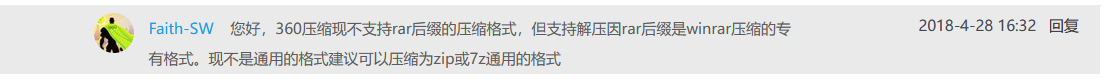
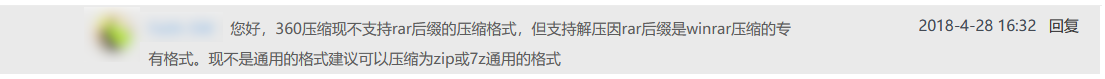
更新到网页版文字内容

Changed region(s): [[0.0615, 0.1519, 0.2154, 0.7089]]

diff --git a/chapters/chap_1-3_software-installation.tex b/chapters/chap_1-3_software-installation.tex
@@ -38,7 +38,7 @@
 
 当要获取一款软件时，我们首先应该考虑的是它的官方网站，即「官网」。比起在其他地方下载软件，从官网下载软件能最大限度地保证你所下载的东西是干净的。
 
-然而，\regcolor{搜索引擎中存在大量广告，且为了吸引点击量而常常放在前面，所以搜索结果中靠前的结果并不一定是官网。}例如，我们想要下载办公软件 WPS Office（简称 WPS），直接在某搜索引擎上搜索「WPS 下载」，我们会得到这样的搜索结果：
+然而，\regcolor{搜索引擎中存在大量广告，且为了吸引点击量而常常放在前面，所以搜索结果中靠前的结果并不一定是官网}。同时，\regcolor{还有很多网站会提供图标、名称与原版软件极为相似的「高仿软件」，稍不留意，我们就会误入它们的圈套}。例如，我们想要下载办公软件 WPS Office（简称 WPS），直接在某搜索引擎上搜索「WPS 下载」，我们会得到这样的搜索结果：
 
 \begin{figure}[htb!]
   \centering
@@ -59,16 +59,17 @@
 鉴别一个网站到底是不是官网，我们主要可以观察这么几个地方：
 
 \begin{itemize}
-  \item 看网址。一般官网的网址都是企业或者软件的名字。例如：
+  \item 看网址。对于一个网址 \texttt{https://www.\underline{example.com}/some/page/...}，我们关注它的主域名部分，即 \texttt{example.com}。一般来说，软件的官网的主域名往往与软件厂商的名称相关联。例如：
   \begin{itemize}
-    \item WPS 的官网是 \texttt{wps.cn}。
-    \item QQ 的官网是 \texttt{qq.com}。
-    \item 网易云音乐的官网是 \texttt{163.com}。
-    \item Steam 的官网是 \texttt{steampowered.com}\footnote{如果你想快速去到 Steam 的官网，可以直接访问 \href{https://s.team}{\texttt{s.team}}。}。
+    \item WPS 的官网是 \texttt{https://www.\underline{wps.cn}}。
+    \item QQ 的官网是 \texttt{https://im.\underline{qq.com}}，微信则是 \texttt{https://weixin.\underline{qq.com}}，主域名都是 \texttt{qq.com}。
+    \item 网易云音乐的官网是 \texttt{https://music.\underline{163.com}}，\texttt{163.com} 是网易的主域名，你可以上网查一查它的由来。
+    \item Steam 的官网是 \texttt{https://store.\underline{steampowered.com}}，它比较特殊——主域名并不是软件或公司名本身\footnote{如果你想快速去到 Steam 的官网，可以直接访问 \href{https://s.team}{\texttt{s.team}}。}。
     \item ……
   \end{itemize}
   \item 排除法。没有哪个软件厂商的名字是叫做「✕✕软件站」「✕✕下载站」「✕✕软件园」的。带有这些名字的\textbf{全部}是第三方下载站。
   \item 语义判断。一般广告网站的标题都与搜索关键词没有任何实质上的联系。我们不妨再看上面的搜索结果中的前几条广告，会发现它们通常名不副实（如「办公软件」「Office」而非「WPS」）。
+  那些提供广告软件的网站，为了规避法律风险，标题通常与我们搜索的关键词没有任何实质上的联系——我们不妨再看上面的搜索结果中的前几条广告，会发现它们通常名不副实，如「办公软件」「Office」，而非我们要找的「WPS」。\regcolor{此外，一些提供「高仿软件」的网站会在原版软件名称前后加上一些修饰词，比如「Steam \underline{管家}」「Office \underline{助手}」等，以此混淆视听}。 
 \end{itemize}
 
 当我们下载的软件是国外软件时，这一问题会变得更加严重。假设我们想下载国外著名游戏平台 Steam 的客户端，我们在搜索引擎上搜索「Steam 下载」，得到的结果如下：
@@ -121,7 +122,7 @@
   一些软件可能有「安装版」和「便携版」之分——前者像普通软件一样，需要安装使用，而后者不必安装，下载后可以直接运行（可能需要解压）。一般来说，安装版文件名含有「setup」字样，而便携版可能有「portable」字样。一般我们建议下载安装版。
 \end{note}
 
-例如，在 WPS 官网下载 WPS 软件：
+图\autoref{fig:Download_WPS} 展示了在 WPS 官网下载 WPS 软件，而图\autoref{fig:OBS} 展示了在 OBS Studio 官网下载 OBS Studio 软件。
 
 \begin{figure}[htb!]
   \centering
@@ -129,8 +130,6 @@
   \caption{从官网下载 WPS}
   \label{fig:Download_WPS}
 \end{figure}
-
-或是在 OBS Studio 官网下载 OBS Studio 软件：
 
 \begin{figure}[htb!]
   \centering
@@ -231,6 +230,15 @@
 
 一般来说，那些由电脑厂商所维护的软件管家，往往相对干净、不带「全家桶」式的捆绑；而那些第三方企业维护的软件管家，一般都会或多或少地提示用户安装它们的配套软件。比如，如果你使用 360 软件管家，那它可能就用某些手段提示用户去安装 360 安全卫士以及一系列其他软件。因此，你可以根据自身机器的实际情况，按需选择这样的软件管家类工具。
 
+此外，在这些「软件管家」类工具中，我们也会遇到上文所提的广告和「冒牌货」现象。例如，下图是在某软件管家中搜索「Bandizip」（一款压缩工具，详见\chapref{cha:archive-formats-and-tools}）时的结果，其中前四项均不是我们所需要的软件（甚至还标榜「无忧退」「金牌开发者」，而我们真正需要的却没有任何标注）。因此，在使用各种软件管家时，我们仍然必须擦亮双眼，谨防被骗。
+
+\begin{figure}[htb!]
+  \centering
+  \includegraphics[width=.7\textwidth]{assets/basic/Ads_in_store.png}
+  \caption{在某软件管家中搜索「Bandizip」的结果}
+  \label{fig:Bandizip_in_software_manager}
+\end{figure}
+
 \section{安装软件}
 
 假设经过与各种网站的斗智斗勇，你成功地下载到了某款软件的安装包。取决于软件，你下载到的可能是下面三种文件中的某一种：
@@ -272,7 +280,7 @@
 
 在安装过程中还需要特别注意的一件事，便是「软件安装位置」，即安装包释放软件自身各种文件的位置。
 
-在上一章中我们提到过，如果 C 盘空间有限，就不要把大量的数据放在 C 盘。对于软件来说，同样有类似的情况：如果你的 C 盘空间本身并不大（例如，小于 300 GB），将大量的软件放在 C 盘，会使得 C 盘的空间压力随着使用时间的增长而显著增大。在这种情况下，安装到 D 盘或其他磁盘分区是更好的选择。不过，如果你的电脑总共只有一个分区（C 盘），那么直接选择安装在其中即可。
+在上一章中我们提到过，如果 C 盘空间有限，就不要把大量的数据放在 C 盘。对于软件来说，同样有类似的情况：如果你的 C 盘空间本身并不大（例如，小于 300 GB），将大量的软件放在 C 盘，会使得 C 盘的空间压力随着使用时间的增长而显著增大。在这种情况下，安装到 D 盘或其他磁盘分区是更好的选择。不过，如果你的电脑总共只有一个分区（C 盘），那就不必考虑这个问题。
 
 \begin{note}
   在\chapref{cha:computer-and-its-components}一章介绍硬盘时，我们说有些电脑会混合使用固态硬盘和机械硬盘。一般这种情况下，C 盘位于固态硬盘上，而后续的分区有可能位于机械硬盘上，你可以在任务管理器中查看分区和硬盘的对应关系。在这种情况下，我们建议将常用软件安装在 C 盘或者固态硬盘的分区上。
@@ -287,17 +295,13 @@ C:\Program Files (x86)\<厂商名字>\<软件名字>\
 
 在上一章中我们提到了「快捷方式」，在你的电脑桌面上就有许多软件可执行文件的快捷方式。右键它们选择【属性】，你就能看到这些已经安装的软件的位置。看看它们中的一些是不是在 \MissingVerb{C:\Program Files\} 或者 \MissingVerb{C:\Program Files (x86)\} 下？
 
-\begin{note}
-  然而，往上面两个位于 C 盘的路径里面放东西是需要管理员权限的（详情可见 \chapref{cha:basic-maintenance}）。而有些软件会默认把自己安装到你用户文件夹下的 \MissingVerb{AppData} 文件夹，这个文件夹默认是隐藏的，但往里面放东西不需要管理员权限。这种策略给我们管理软件安装位置带来了一些麻烦。
-\end{note}
-
-\MissingVerb{Program Files} 和 \MissingVerb{Program Files (x86)} 这两个文件夹，即系统预置的两个用来安装 app 的文件夹，都位于 C 盘根目录下。然而，我们希望把软件安装到 D 盘。这里推荐一个简单好用的方法：\regcolor{直接将默认路径中的 \MissingTT{C:} 改成 \MissingTT{D:}。}例如：
+\MissingVerb{Program Files} 和 \MissingVerb{Program Files (x86)} 这两个文件夹，即系统预置的两个用来安装软件的文件夹，都位于 C 盘根目录下。如果你希望把软件安装到 D 盘来缓解 C 盘的空间压力，这里推荐一个简单好用的方法：直接将默认路径中的 \MissingTT{C:} 改成 \MissingTT{D:}。例如：
 
 \begin{MissingVerbatim}
   D:\Program Files (x86)\Tencent\QQ\
 \end{MissingVerbatim}
 
-这就是在 D 盘安装 QQ 软件的一个很合适的路径。这样做能保持一个比较干净的目录结构。你的 D 盘下会因此多出 \MissingVerb{Program Files} 和 \MissingVerb{Program Files (x86)} 这样的两个文件夹，用来专门在 D 盘安装软件。如下图所示，在安装软件过程中把 \MissingVerb{C} 改成 \MissingVerb{D} 即可。
+这就是在 D 盘安装 QQ 软件的一个很合适的路径，如下图所示。这样做能保持一个比较干净的目录结构。你的 D 盘下会因此多出 \MissingVerb{Program Files} 和 \MissingVerb{Program Files (x86)} 这样的两个文件夹，用来专门在 D 盘安装软件，也便于你自己管理。
 
 \begin{figure}[htb!]
   \centering
@@ -306,7 +310,7 @@ C:\Program Files (x86)\<厂商名字>\<软件名字>\
   \label{fig:Change_C_to_D}
 \end{figure}
 
-如\autoref{fig:Sogou_change_directory} 所示，有一些软件的安装包不是「下一步」型的，而只有一个「立即安装」的按钮。一般这种情况，可以展开「自定义安装」之类的选项，然后更改软件的安装位置。
+有一些软件的安装包不是「下一步」型的，而是直接有一个【立即安装】的按钮，如下图。一般这种情况，可以展开「自定义安装」之类的选项，然后更改软件的安装位置。
 
 \begin{figure}[htb!]
   \centering
@@ -314,6 +318,24 @@ C:\Program Files (x86)\<厂商名字>\<软件名字>\
   \caption{有时候得找「自定义安装」的选项}
   \label{fig:Sogou_change_directory}
 \end{figure}
+
+除了上面提到的 \MissingVerb{Program Files} 和 \MissingVerb{Program Files (x86)} 文件夹外，有一些软件选择默认安装到你用户文件夹下的 \MissingVerb{AppData} 文件夹，即
+\begin{MissingVerbatim}
+  C:\用户\<你的用户文件夹名>\AppData
+\end{MissingVerbatim}
+这是因为 C 盘作为 Windows 系统所在的分区，有一套复杂的权限管理机制，往两个 \MissingVerb{Program Files} 目录放东西是需要管理员权限的（见\chapref{cha:basic-maintenance}）。相比之下，位于用户文件夹的 \MissingVerb{AppData} 则不需要管理员权限，因此被这些软件选为理想的安装路径。如果你想将这类软件安装到 D 盘或其他分区，可以在对应分区新建一个文件夹（例如 \MissingVerb{UserApps} 或 \MissingVerb{UserPrograms}）来统一存放它们。当然，你也可以照猫画虎地直接「改 C 为别的」来安装到其他分区，但这样会产生复杂的目录结构，可能不利于你自己管理。
+
+\begin{warning}
+  你可以按上文介绍的操作将软件安装到 C 盘以外的分区；但若想把软件安装到 C 盘，请保持默认安装路径，不要更改。受 C 盘权限机制的影响，将软件随意安装到 C 盘内的其他位置可能会出现问题。
+\end{warning}
+
+% \begin{note}
+%   然而，往上面两个位于 C 盘的路径里面放东西是需要管理员权限的（详情可见 \chapref{cha:basic-maintenance}）。而有些软件会默认把自己安装到你用户文件夹下的 \MissingVerb{AppData} 文件夹，这个文件夹默认是隐藏的，但往里面放东西不需要管理员权限。这种策略给我们管理软件安装位置带来了一些麻烦。
+% \end{note}
+
+% \MissingVerb{Program Files} 和 \MissingVerb{Program Files (x86)} 这两个文件夹，即系统预置的两个用来安装 app 的文件夹，都位于 C 盘根目录下。然而，我们希望把软件安装到 D 盘。这里推荐一个简单好用的方法：\regcolor{直接将默认路径中的 \MissingTT{C:} 改成 \MissingTT{D:}。}例如：
+
+% 如\autoref{fig:Sogou_change_directory} 所示，有一些软件的安装包不是「下一步」型的，而只有一个「立即安装」的按钮。一般这种情况，可以展开「自定义安装」之类的选项，然后更改软件的安装位置。
 
 \section{软件收费、破解和自由软件}
 

diff --git a/chapters/chap_4-2_introduction-to-cryptology.tex b/chapters/chap_4-2_introduction-to-cryptology.tex
@@ -103,7 +103,7 @@
   \end{tblr}
 \end{table}
 
-这样一来，「MISSING」一词加密之后就变成了「DOLLOFU」。相比凯撒密码，字母替换密码更隐藏了字母之间的相对位置关系，而高达$26!$种加密情况也使得它更难被暴力破解。可是，人们在统计了大量文本后发现，一门语言当中，每个字母出现的频率是有规律的：譬如 E 与 T 是在英语中出现频率最大的两个字母。那么，密文里出现频率最高的两个字母，就很可能对应着 E 和 T。这就是「频率分析」。借助它，人们可以确定字母间的对应关系，从而破解字母替换密码。
+这样一来，「MISSING」一词加密之后就变成了「DOLLOFU」。相比凯撒密码，字母替换密码更隐藏了字母之间的相对位置关系，而高达$26!$\footnote{$n!$ 表示 $n$ 的阶乘，即 $n! = 1\times2\times3\times\cdots\times(n-1)\times n$。}种加密情况也使得它更难被暴力破解。可是，人们在统计了大量文本后发现，一门语言当中，每个字母出现的频率是有规律的：譬如 E 与 T 是在英语中出现频率最大的两个字母。那么，密文里出现频率最高的两个字母，就很可能对应着 E 和 T。这就是「频率分析」。借助它，人们可以确定字母间的对应关系，从而破解字母替换密码。
 
 采用「动态替换」的维吉尼亚密码则在一定程度上解决了这个问题。它使用一个单词作为密钥，靠密钥的每个字母决定不同位置的偏移量：例如 B 代表偏移量为 1，D 就代表偏移量为 3。下图展示了用「WINDY」加密「MISSING」的过程，可见，每一次的偏移量都在变化，并且不同位置上，字母的替换关系不同。
 
@@ -416,7 +416,7 @@ Windy 收到 $C$ 后，按这个式子
 
 \begin{itemize}
   \item ECDHE 是一种基于椭圆曲线的密钥交换算法，它有点像我们提到的非对称加密算法如 RSA，也有成对的公钥与私钥，不过它专门被用来在通信双方交换后续加密的密钥——也就是接下来提到的 AES 算法的密钥；ECDSA 则是基于椭圆曲线的数字签名算法，关于数字签名的更多内容，请继续阅读本文。
-  \item AES\_{}128\_{}GCM 则代表以 128 位为密钥长度的 AES 加密算法。当收到由之前由 ECDHE 传输过来的密钥之后，浏览器就有能力解密通过 AES 加密后传输过来的真正的网页内容，随后送给浏览器渲染并呈现在你眼前。
+  \item AES\_{}128\_{}GCM 则代表以 128 位为密钥长度的 AES 加密算法。当收到之前由 ECDHE 传输过来的密钥之后，浏览器就有能力解密通过 AES 加密后传输过来的真正的网页内容，随后送给浏览器渲染并呈现在你眼前。
 \end{itemize}
 
 除了 HTTPS 以外，另一个我们身边的直观加密例子是 Windows 系统本身——Windows 使用 AES 加密算法来保护我们硬盘上的数据。在\chapref{cha:user-and-ms-account}一章中我们提到，Windows 提供了一种「设备加密」功能，启动该功能后，硬盘上的所有数据都会被加密存储。这种技术的「真名」叫做 BitLocker，它使用 AES 加密算法来保护硬盘上的数据，而密钥受电脑内部的安全芯片保护。一旦这个安全芯片检测到「情况不对」，就会拒绝提供密钥，从而牢牢地 \CJKsout*{拦住正常的用户} 保护数据的安全。
@@ -429,7 +429,7 @@ Windy 收到 $C$ 后，按这个式子
 
 \subsection{完整才是硬道理——校验和与哈希}
 
-在本书的\chapref{cha:bring-intelligence-to-machines}一章中，我们讲述过过 AI 与人类本质的区别。如果某个攻击者在文章从服务器向我们传输的过程中，蓄意拦截、篡改部分内容，但让其他数据正常发送，让整段文字变成这样（涂黑的是拦截掉的内容，红色是篡改的内容）：
+在本书的\chapref{cha:bring-intelligence-to-machines}一章中，我们讲述过 AI 与人类本质的区别。如果某个攻击者在文章从服务器向我们传输的过程中，蓄意拦截、篡改部分内容，但让其他数据正常发送，让整段文字变成这样（涂黑的是拦截掉的内容，红色是篡改的内容）：
 
 % 此段与《AI》的「是敌还是友」一节联动
 \begin{quoting}

diff --git a/missing.tex b/missing.tex
@@ -24,10 +24,6 @@
   \vspace*{2.3cm}
 \end{center}
 
-\begin{note}
-  我们十分期望得到读者的建议和意见：无论是对编写方向有好的建议，还是发现了叙述不正确或不严谨的地方，亦或是找到了一个错别字，都请加群向我们反馈或将反馈发送到邮箱 \href{mailto:missing@criwits.top}{\texttt{missing@criwits.top}} 哦！
-\end{note}
-
 这是一份适合电脑小白入门的电脑使用课程。它平易近人，娓娓道来，介绍了从基本的文件管理，到软件的寻找安装，再到各类使用技巧与优良软件推荐的许多内容，旨在帮助读者在信息化时代更灵活地使用电脑。
 
 这也是一份面向今日与未来的信息时代指南。它立足当下，探索变革，讲述了当今热门的生成式 AI、网络安全、物联网与云计算等前沿技术的概念、原理和应用，能够引导读者立于数字化时代的潮头，把握科技发展的方向。
@@ -35,7 +31,11 @@
 零门槛、易理解、有深度，与时俱进、开放共享——这是《你缺失的那门计算机课》不断追求的目标，也是我们努力的方向。
 
 \begin{note}
-  本书纸质版预计在 2025 年末由清华大学出版社出版，敬请期待！
+  本书纸质版预计在 2026 年初由清华大学出版社出版，敬请期待！
+\end{note}
+
+\begin{note}
+  我们十分期望得到读者的建议和意见：无论是对编写方向有好的建议，还是发现了叙述不正确或不严谨的地方，亦或是找到了一个错别字，都请加群向我们反馈或将反馈发送到邮箱 \href{mailto:missing@criwits.top}{\texttt{missing@criwits.top}} 哦！
 \end{note}
 
 \begin{center}

diff --git a/chapters/afterwords.tex b/chapters/afterwords.tex
@@ -38,7 +38,7 @@
 
 当然，这一年中，值得讲述的事情还有不少。我们建立了交流群，汇聚来自五湖四海的读者，吹吹水也不亦乐乎；我们在不同的地方「推销」我们的作品，说不定又有人因此而获得一些知识；我们收到了许多读者的来信，其中不乏真挚而温暖的感谢，不乏饱含感慨的长篇体悟，这都令我们备受鼓舞。\CJKsout*{你缺计课的势力正在不断地扩大！}
 
-不过，不可避免地，我们听到了一些不同的声音，但我始终信任六个字：「尽人事，听天命。」我们做好我们力所能及的事情，至于不愿意学习新知识的人，那就只能听天由命了咯~
+不过，不可避免地，我们听到了一些不同的声音，但我始终信任六个字：「尽人事，听天命。」我们做好我们力所能及的事情，至于不愿意学习新知识的人，那就只能听天由命了咯\textasciitilde
 
 总之，新的一年，希望《你缺计课》能够继续发光出彩；围绕在她周围的大家也能共同成长，互促进步！
 

diff --git a/chapters/chap_1-2_file-and-file-management.tex b/chapters/chap_1-2_file-and-file-management.tex
@@ -378,7 +378,7 @@
       \end{note}
     \item 若它的总容量在 500 GB 以上，建议为 C 盘留出 400 GB—500 GB 的空间，再将剩余的空间按自己的喜好，分出一个或多个新的分区（D 盘、E 盘……）。然后，在这些分区存放你的文件。
   \end{itemize}
-  \item 如果你的电脑已经有多个分区（C 盘、D 盘……），可以先在「任务管理器」中，查看每个分区对应的硬盘：
+  \item 如果你的电脑已经有多个分区（C 盘、D 盘……），可以先在「任务管理器」中，查看每个分区对应的硬盘（参见\chapref{cha:computer-and-its-components}）：
   \begin{itemize}
     \item 若你只有一块硬盘，通常这种情况下，你的 C 盘不会很大，建议直接在 D 盘和之后的分区存放你的文件。
     \item 若你有多块硬盘，并且所有硬盘都是 SSD，我们亦建议你使用 D 盘和之后的分区存放文件。

diff --git a/chapters/chap_4-3_program-and-arch.tex b/chapters/chap_4-3_program-and-arch.tex
@@ -256,7 +256,7 @@ fn main() {
   根据前文菜谱中给出的时间数值，计算采用这种方式能节省的时间。
 \end{note}
 
-这个例子虽然简单，但是它向我们强调了好算法的重要性：同样的问题，选择好的算法能节省更多的时间；在相同的时间内，选择好的算法又能解决更多的问题。我们再来分析一个问题：如果要计算 1 到 100 的阶乘\footnote{$n! = 1\times2\times3\times\cdots\times(n-1)\times n$}和，也即
+这个例子虽然简单，但是它向我们强调了好算法的重要性：同样的问题，选择好的算法能节省更多的时间；在相同的时间内，选择好的算法又能解决更多的问题。我们再来分析一个问题：如果要计算 1 到 100 的阶乘和，也即
 \begin{align*}
   \sum_{i=1}^{100}i!&=1!+2!+\cdots+99!+100! \\
   &=1+1\times 2+1\times 2\times 3+\cdots+1\times 2\times 3\times\cdots\times 100\text{，}

diff --git a/chapters/chap_3-4_manage-storage.tex b/chapters/chap_3-4_manage-storage.tex
@@ -12,11 +12,11 @@
 \end{intro}
 
 在正式进入这一章之前，请大声朗读三遍以下八字真言，并时刻牢记于心：
-\begin{center}
-  \LARGE\bfseries
-  数据无价，谨慎操作！\par
-  Data is Precious, Operate Carefully!
-\end{center}
+
+\begin{figure}[H]
+  \centering
+  \includegraphics[width=.6\textwidth]{assets/advanced/Data_is_Precious.pdf}
+\end{figure}
 
 如果要给「常见电脑问题」列个榜单，除了「软件怎么不能用」「为什么电脑变慢了」这种笼统的问题外，「我电脑又满了」肯定榜上有名。「满」，大部分指的是系统分区 C 盘。本章的所有内容，正是围绕「怎么样让我的电脑不那么满」这一需求展开的。
 

diff --git a/chapters/chap_X-3_company-name-reference.tex b/chapters/chap_X-3_company-name-reference.tex
@@ -36,6 +36,7 @@
   杭州深度求索人工智能基础技术研究有限公司 &    深度求索    \\
               Xerox Corporation            &      施乐      \\
               腾讯控股有限公司             &      腾讯      \\
+              广州网易计算机系统有限公司    &      网易      \\
            Microsoft Corporation           &      微软      \\
              Intel Corporation             &     英特尔     \\
              Nvidia Corporation            & 英伟达、NVIDIA \\
